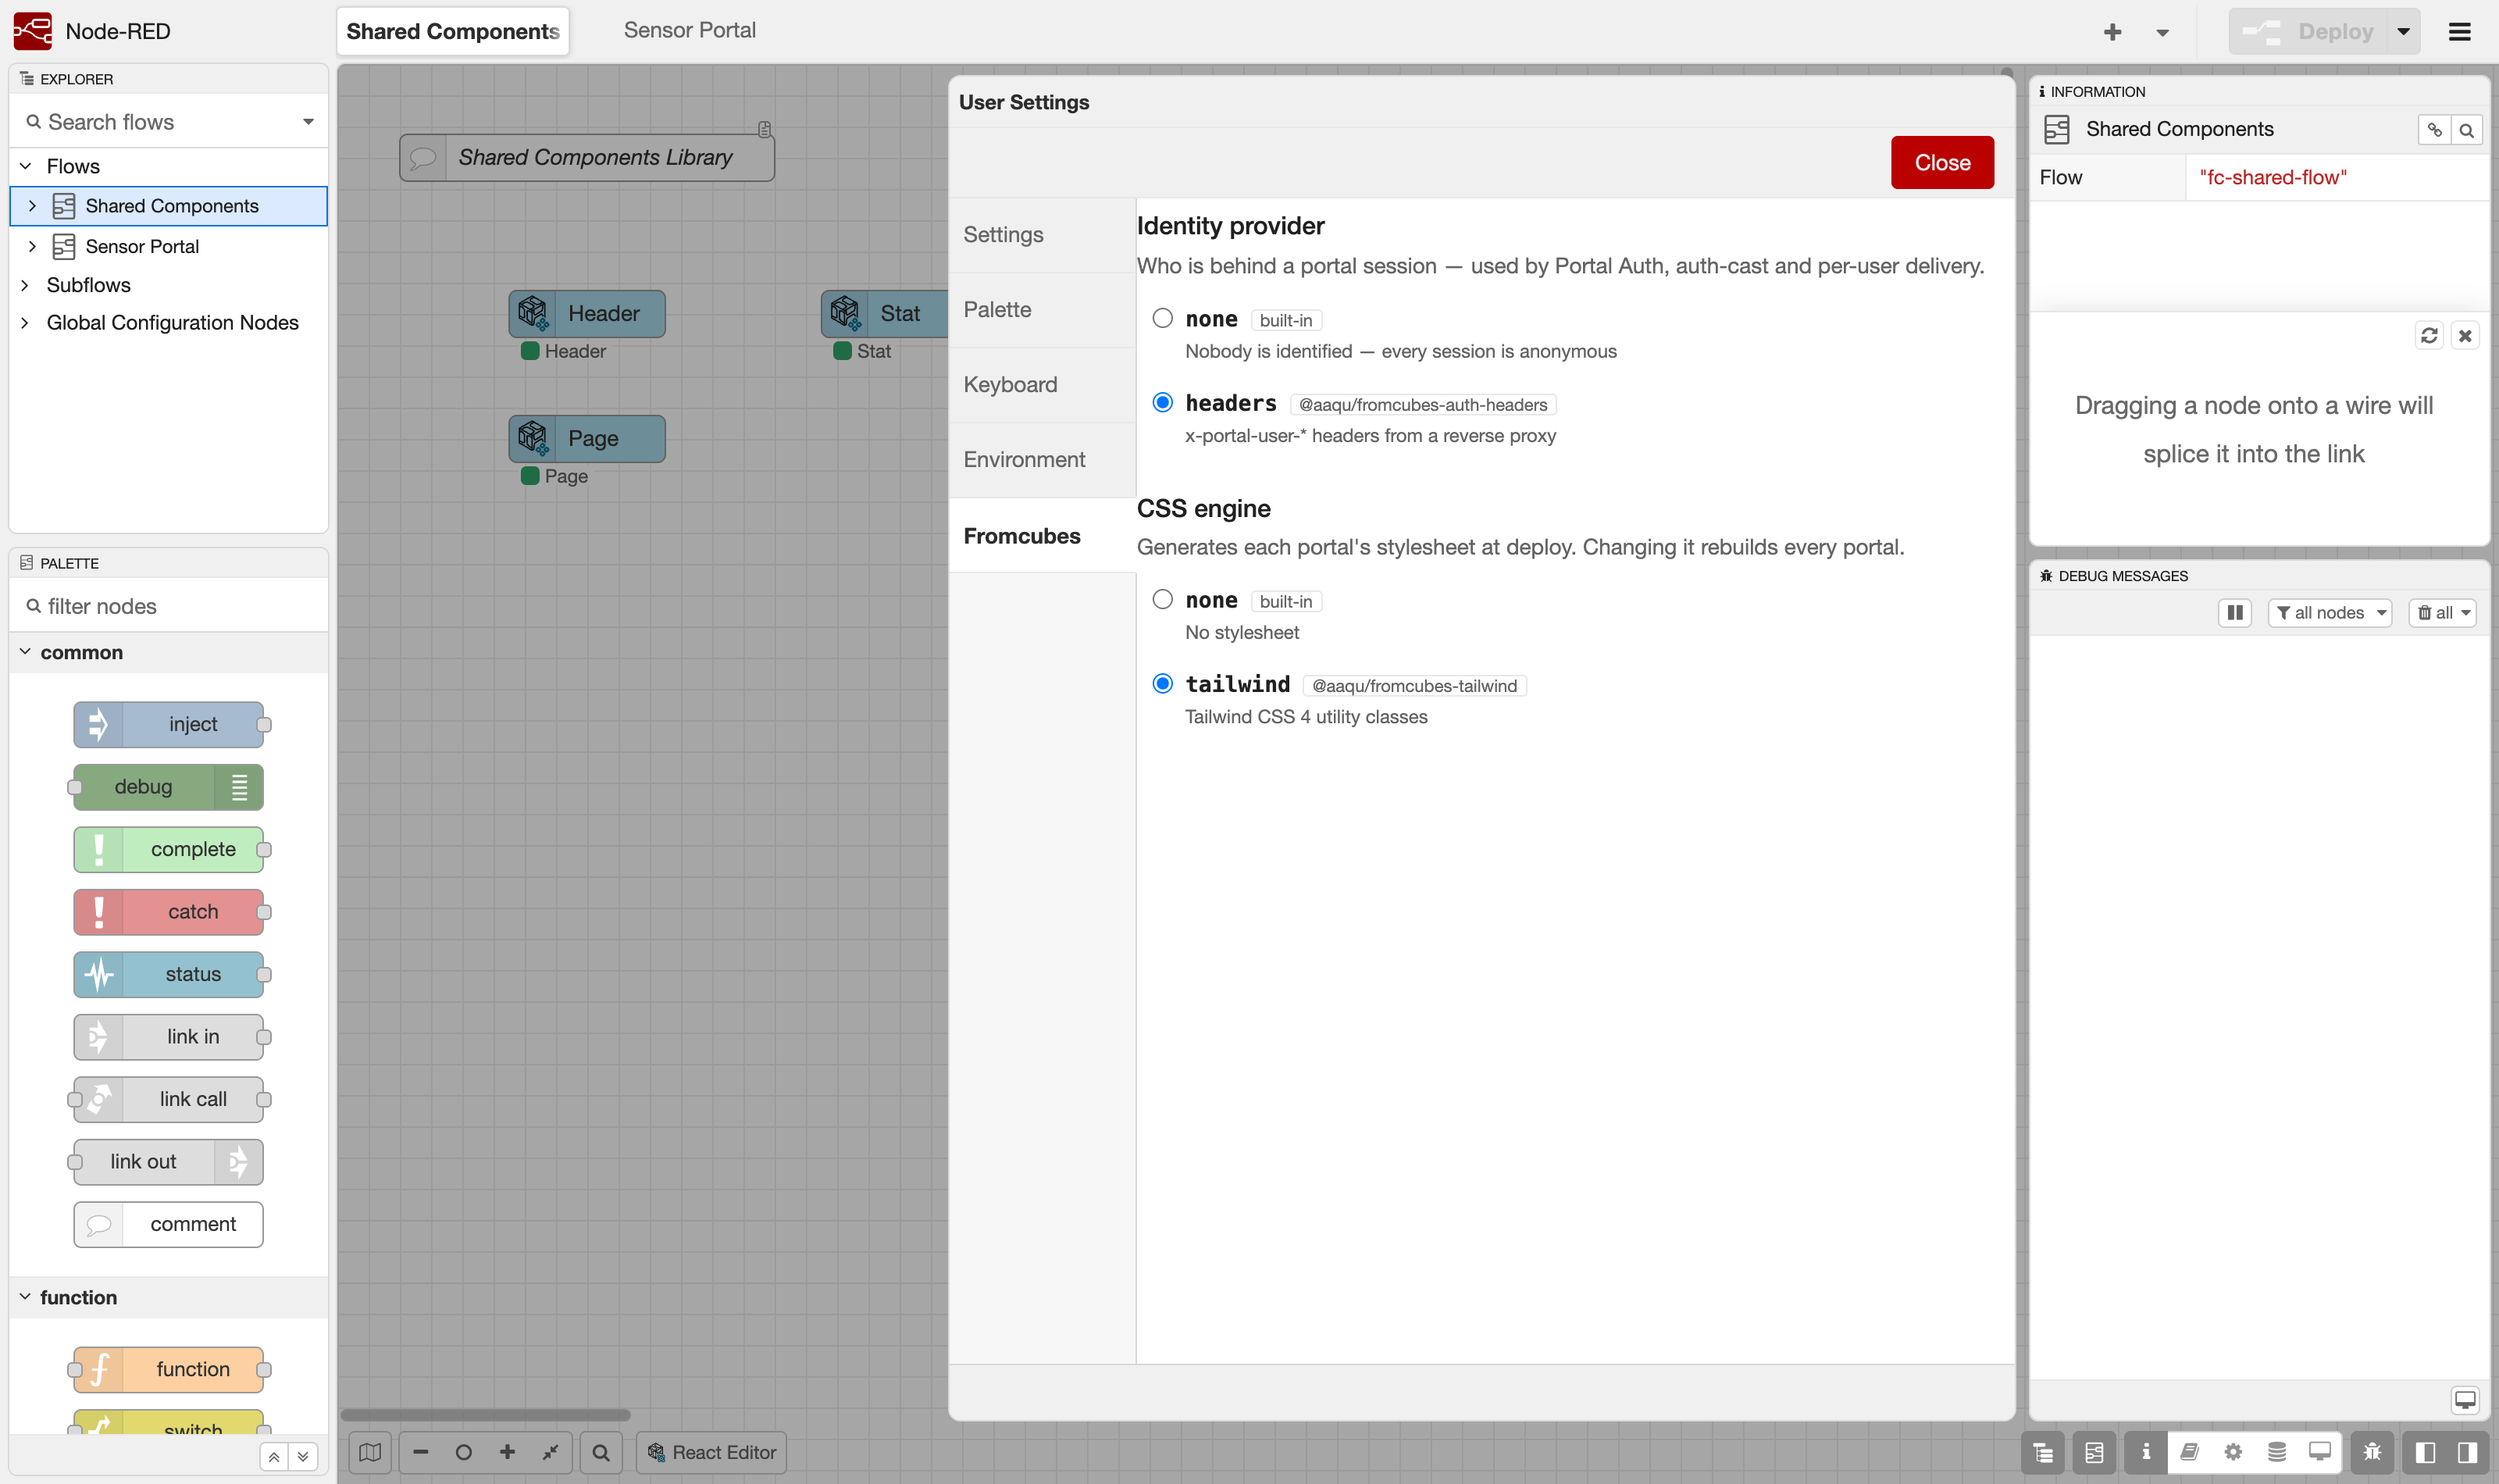
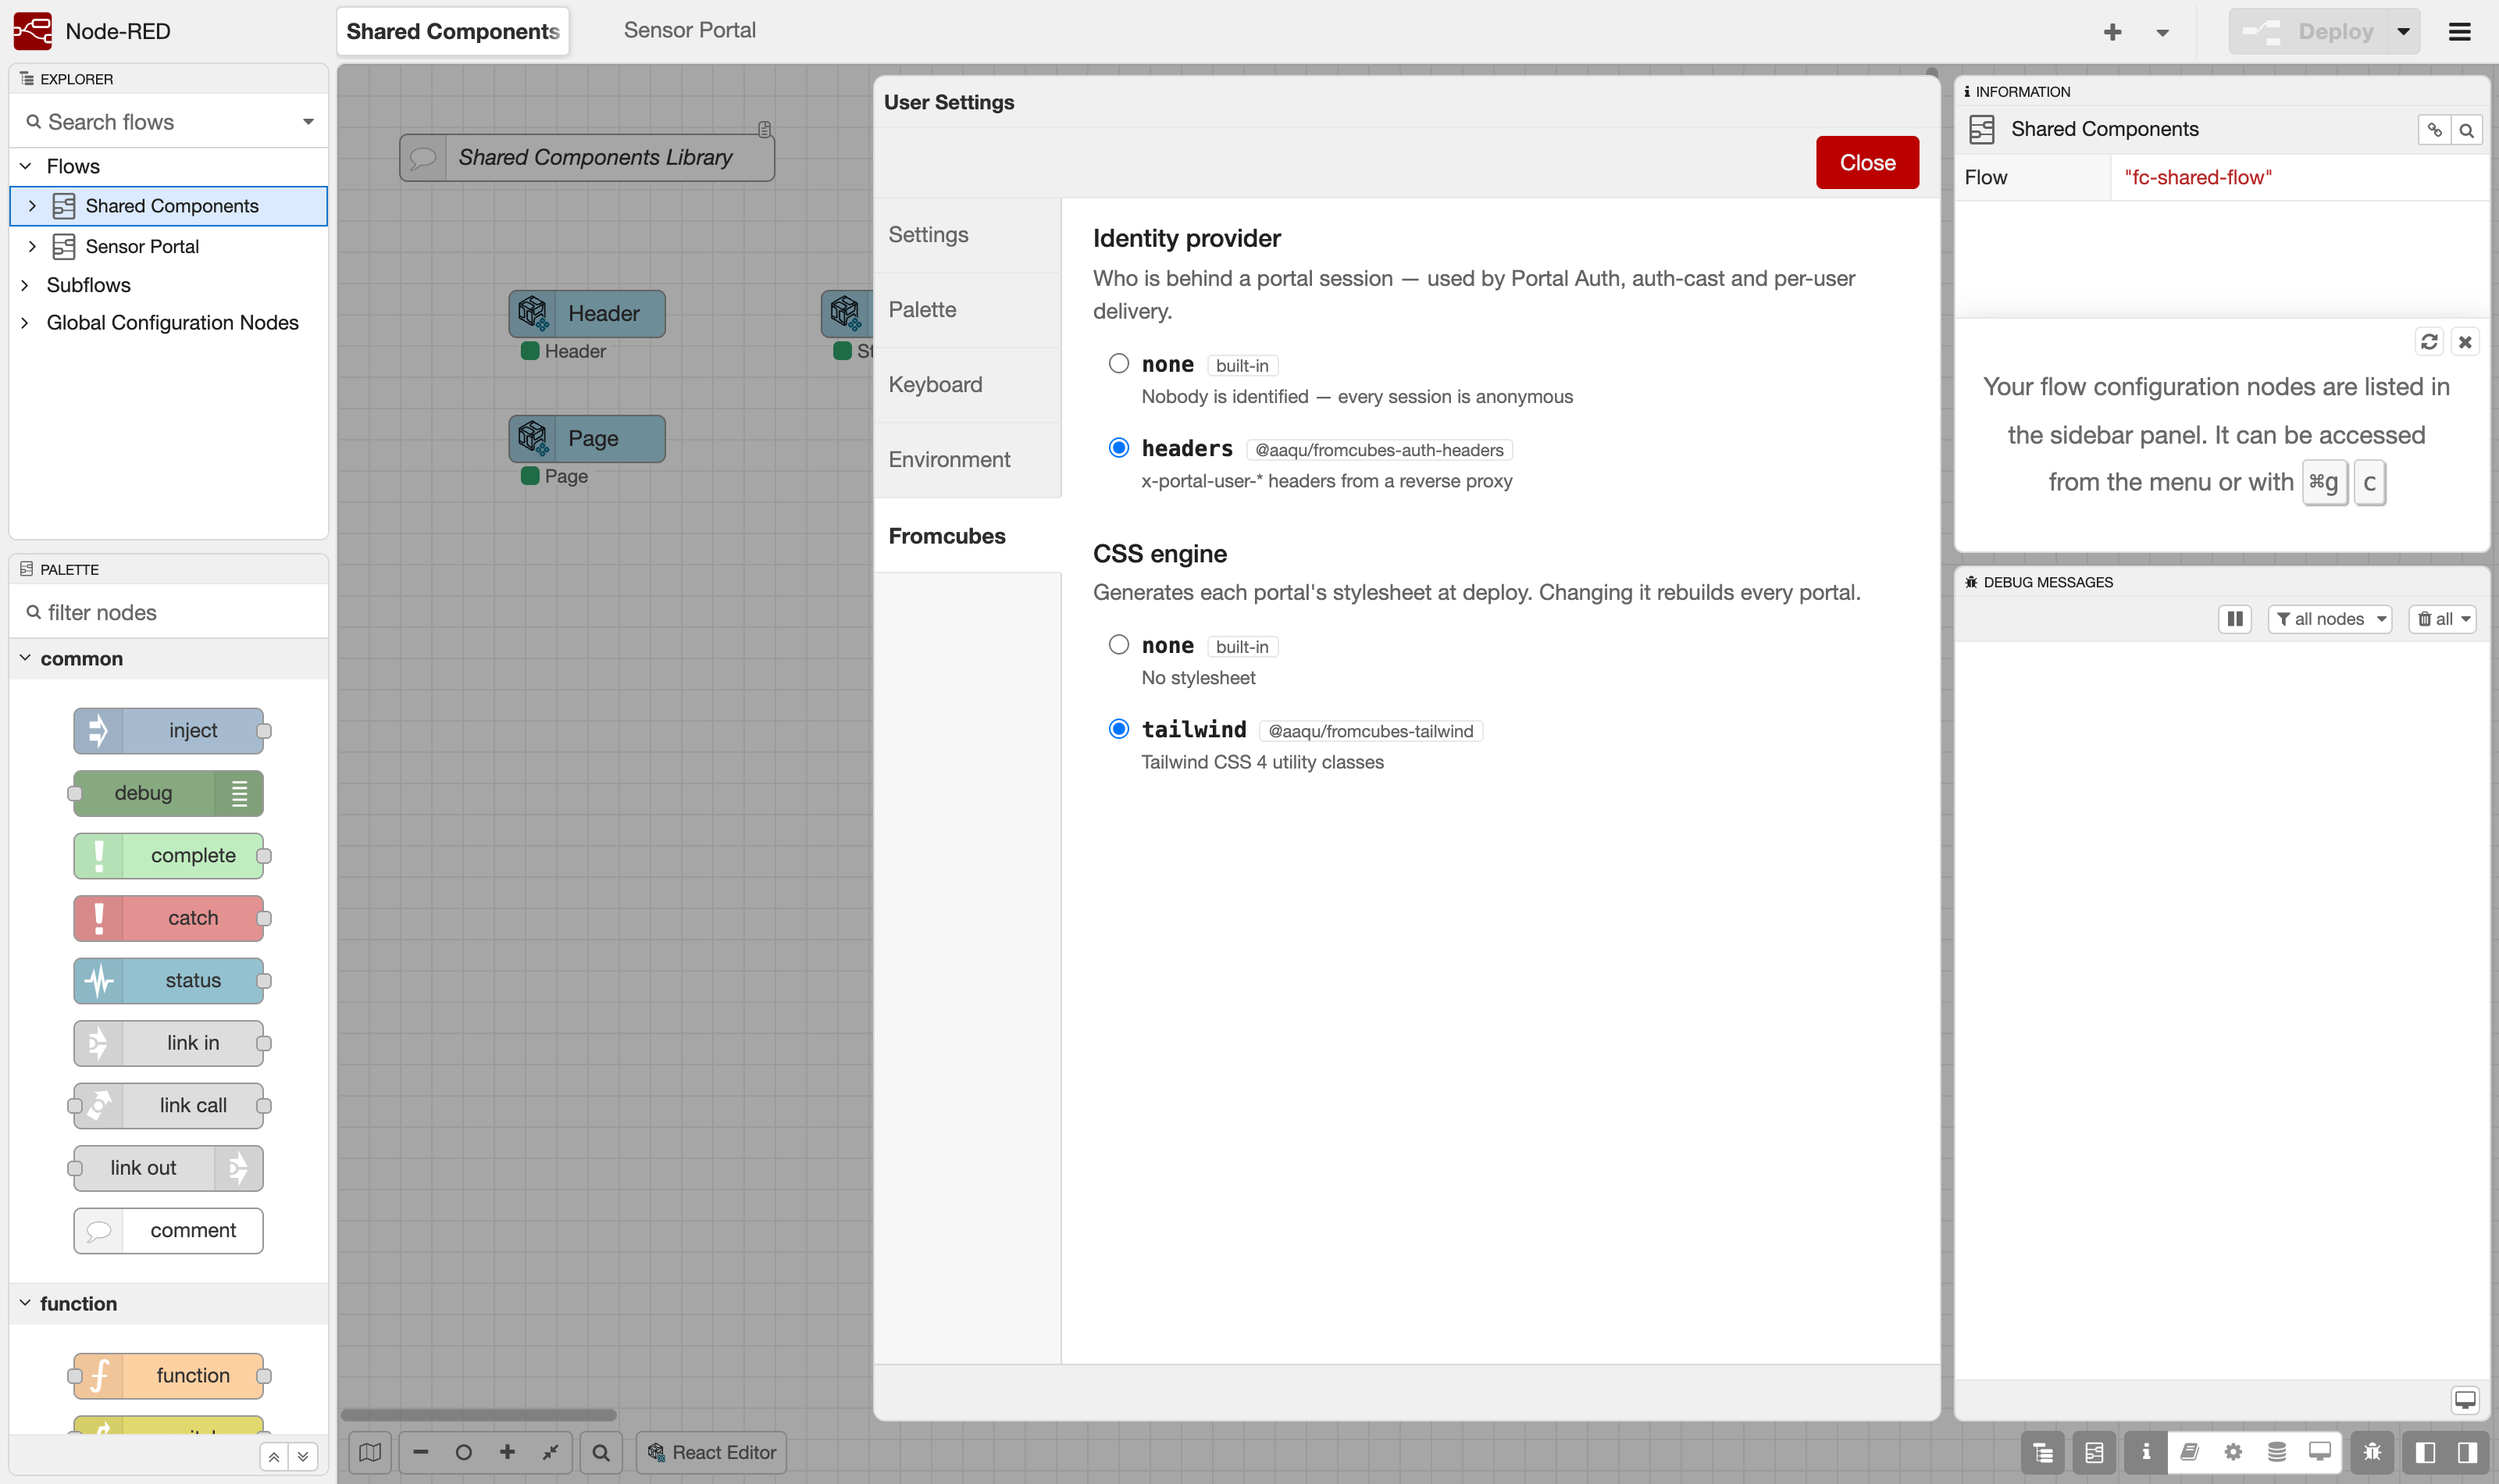
fix(editor): left padding in Settings → Fromcubes
The pane sat flush against the tab list. It now uses the same box as
Node-RED's own View pane: absolutely filling the content area, 8px 20px
20px padding, scrolling on its own. Docs screenshot retaken.

diff --git a/packages/fromcubes-react/nodes/editor/workspace.css b/packages/fromcubes-react/nodes/editor/workspace.css
@@ -630,6 +630,13 @@ body.fc-ws-open #red-ui-notifications {
 /* ── Settings → Fromcubes (provider-settings.js) ─────────────────
    Lives in Node-RED's own Settings tray, not in the overlay, so it uses
    Node-RED's theme variables instead of the vs-dark palette above. */
+/* Same box as Node-RED's own View pane (#red-ui-settings-tab-view): fills
+   the content area, scrolls on its own, 20px side padding. */
+.fc-ps {
+  position: absolute; top: 0; right: 0; bottom: 0; left: 0;
+  padding: 8px 20px 20px;
+  overflow-y: auto;
+}
 .fc-ps .fc-ps-section { margin-bottom: 24px; }
 .fc-ps .fc-ps-hint { color: var(--red-ui-secondary-text-color); margin: 0 0 8px; }
 .fc-ps .fc-ps-note,
